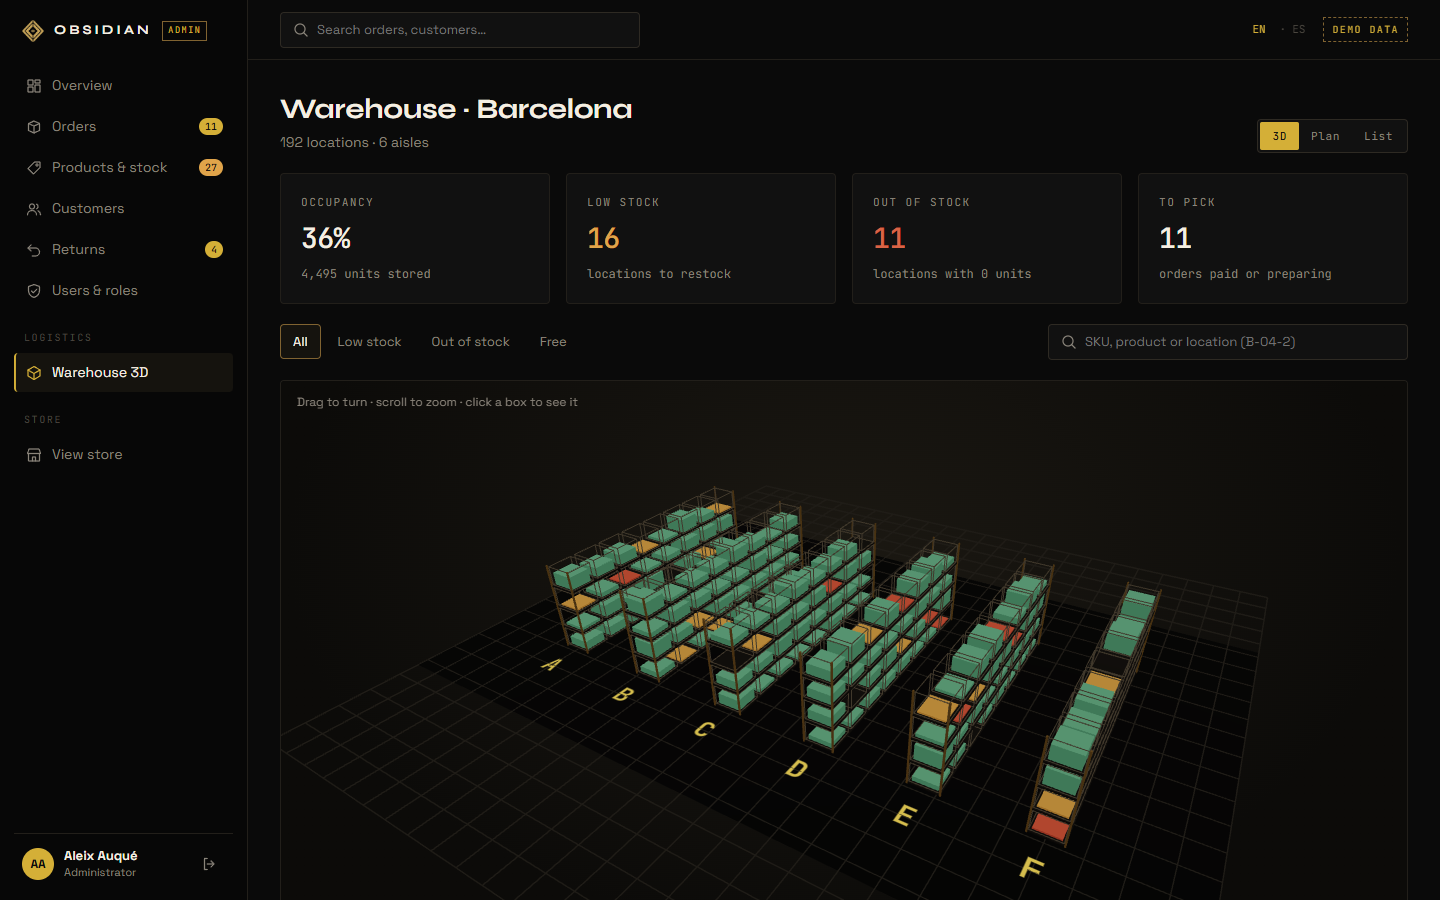
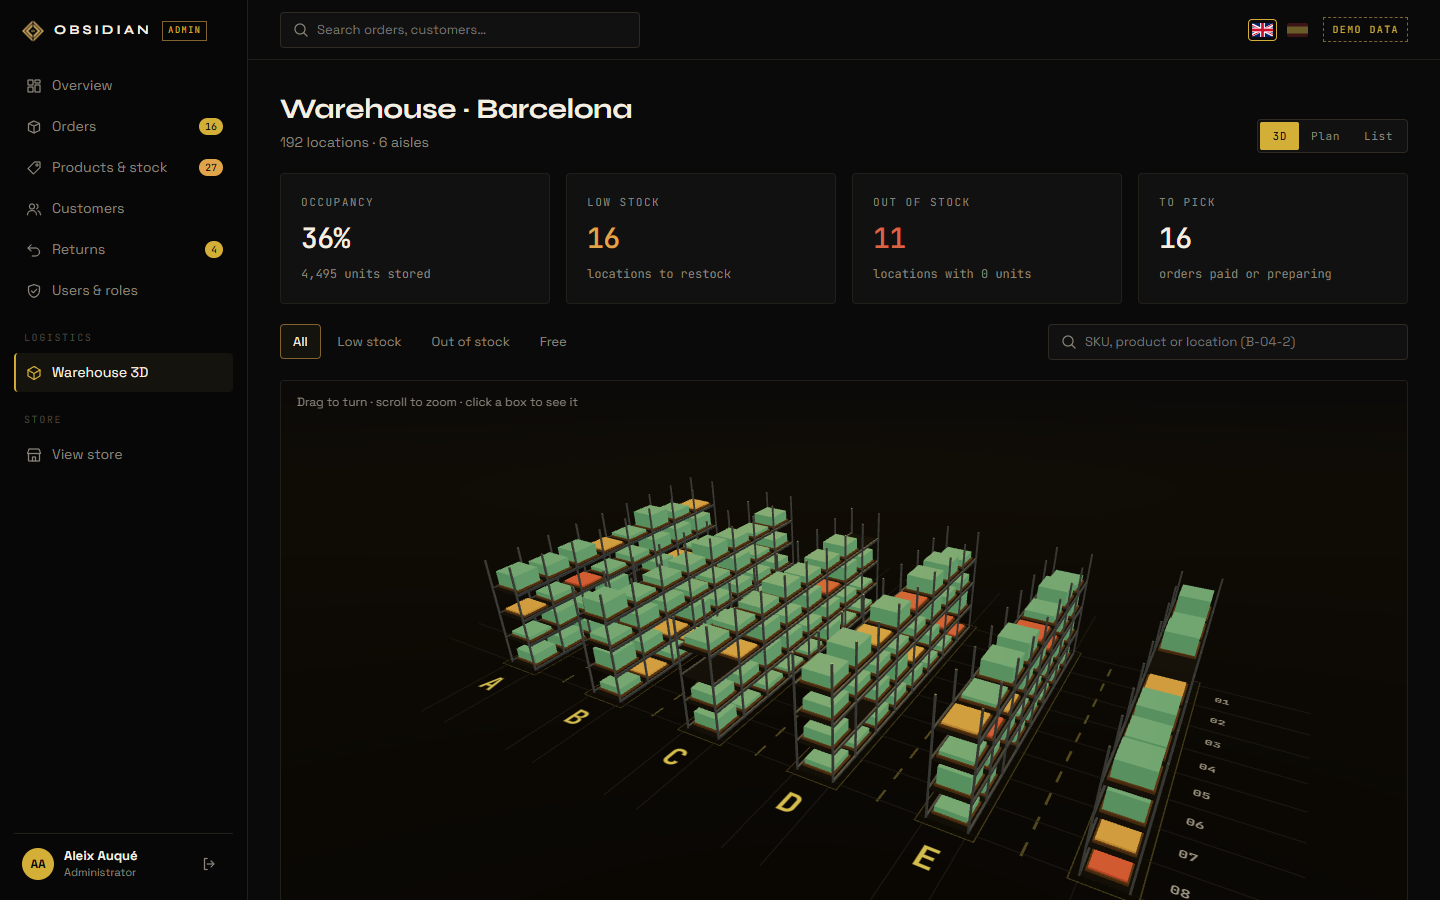
Almacén: estado de stock medio, colores más claros y columna de detalle fija
- Nuevo estado "stock medio" (amarillo) con filtro; stock bajo en naranja y agotado en rojo intenso
- Colores de stock como variables CSS, iguales en el almacén y en la tabla de stock
- La columna de detalle siempre está reservada: la vista no cambia de tamaño al elegir una ubicación
- Docs: almacén en los README (es, en, ca)

diff --git a/src/admin/admin.css b/src/admin/admin.css
@@ -895,7 +895,7 @@
 .adm-stock-alert {
   font-family: var(--font-mono);
   font-size: 11px;
-  color: #e0a44a;
+  color: var(--stock-low);
 }
 
 .adm-pill {
@@ -1117,13 +1117,13 @@
 }
 
 .adm-stock-input.is-low {
-  border-color: #e0a44a;
-  color: #e0a44a;
+  border-color: var(--stock-low);
+  color: var(--stock-low);
 }
 
 .adm-stock-input.is-out {
-  border-color: var(--accent-warn);
-  color: var(--accent-warn);
+  border-color: var(--stock-out);
+  color: var(--stock-out);
 }
 
 .adm-stock-footer {
@@ -1162,8 +1162,8 @@
   vertical-align: middle;
 }
 
-.adm-legend-dot.is-low { background: #e0a44a; }
-.adm-legend-dot.is-out { background: var(--accent-warn); }
+.adm-legend-dot.is-low { background: var(--stock-low); }
+.adm-legend-dot.is-out { background: var(--stock-out); }
 
 .adm-movements {
   display: flex;
@@ -1217,13 +1217,13 @@
 .adm-stock-low {
   font-family: var(--font-mono);
   font-size: 12px;
-  color: #e0a44a;
+  color: var(--stock-low);
 }
 
 .adm-stock-out {
   font-family: var(--font-mono);
   font-size: 12px;
-  color: var(--accent-warn);
+  color: var(--stock-out);
 }
 
 /* ------------ Export buttons ------------ */
@@ -1332,18 +1332,41 @@
   border-color: var(--gold-soft);
 }
 
-.wh-text-low { color: #e0a44a; }
-.wh-text-out { color: var(--accent-warn); }
+/* Stock state colours (the same as STATE_COLORS in warehouse/states.ts). */
+:root {
+  --stock-ok: #6fb38b;
+  --stock-medium: #e5c54f;
+  --stock-low: #ec8a2f;
+  --stock-out: #e5392f;
+  --stock-free: #7f9cc9;
+}
+
+.wh-text-low { color: var(--stock-low); }
+.wh-text-out { color: var(--stock-out); }
 
 .wh-layout {
   display: grid;
-  grid-template-columns: minmax(0, 1fr);
+  grid-template-columns: minmax(0, 1fr) 320px;
   gap: 16px;
   align-items: start;
 }
 
-.wh-layout.has-panel {
-  grid-template-columns: minmax(0, 1fr) 320px;
+/* Before choosing a location: a quiet hint in the details column. */
+.wh-panel-empty {
+  align-items: center;
+  text-align: center;
+  padding-bottom: 32px;
+}
+
+.wh-panel-empty .adm-card-head {
+  align-self: stretch;
+}
+
+.wh-panel-empty svg {
+  width: 32px;
+  height: 32px;
+  margin-top: 24px;
+  color: var(--gold-soft);
 }
 
 .wh-view {
@@ -1429,10 +1452,11 @@
   transform: scale(1.2);
 }
 
-.wh-cell.is-ok { background: #6fb38b; }
-.wh-cell.is-low { background: #e0a44a; }
-.wh-cell.is-out { background: #d96446; }
-.wh-cell.is-empty { background: rgba(127, 156, 201, 0.35); border: 1px dashed #7f9cc9; }
+.wh-cell.is-ok { background: var(--stock-ok); }
+.wh-cell.is-medium { background: var(--stock-medium); }
+.wh-cell.is-low { background: var(--stock-low); }
+.wh-cell.is-out { background: var(--stock-out); }
+.wh-cell.is-empty { background: rgba(127, 156, 201, 0.35); border: 1px dashed var(--stock-free); }
 .wh-cell.is-faded { opacity: 0.15; }
 
 .wh-cell.is-selected {
@@ -1463,9 +1487,10 @@
   height: 100%;
 }
 
-.wh-bar .is-ok { background: #6fb38b; }
-.wh-bar .is-low { background: #e0a44a; }
-.wh-bar .is-out { background: #d96446; }
+.wh-bar .is-ok { background: var(--stock-ok); }
+.wh-bar .is-medium { background: var(--stock-medium); }
+.wh-bar .is-low { background: var(--stock-low); }
+.wh-bar .is-out { background: var(--stock-out); }
 
 .wh-state {
   font-family: var(--font-mono);
@@ -1474,10 +1499,11 @@
   text-transform: uppercase;
 }
 
-.wh-state.is-ok { color: #6fb38b; }
-.wh-state.is-low { color: #e0a44a; }
-.wh-state.is-out { color: #d96446; }
-.wh-state.is-empty { color: #7f9cc9; }
+.wh-state.is-ok { color: var(--stock-ok); }
+.wh-state.is-medium { color: var(--stock-medium); }
+.wh-state.is-low { color: var(--stock-low); }
+.wh-state.is-out { color: var(--stock-out); }
+.wh-state.is-empty { color: var(--stock-free); }
 
 .adm-table tr.is-selected {
   background: #15130e;
@@ -1721,8 +1747,13 @@
     grid-template-columns: repeat(2, minmax(0, 1fr));
   }
 
-  /* The panel goes under the view instead of next to it. */
-  .wh-layout.has-panel {
+  /* The panel goes under the view instead of next to it,
+     and the empty hint isn't needed on small screens. */
+  .wh-panel-empty {
+    display: none;
+  }
+
+  .wh-layout {
     grid-template-columns: minmax(0, 1fr);
   }
 }

diff --git a/src/admin/pages/Warehouse.tsx b/src/admin/pages/Warehouse.tsx
@@ -23,6 +23,7 @@ const VIEWS: View[] = ["3d", "plan", "list"];
 // "label" is a translation key (admin.json).
 const FILTERS: { value: StateFilter; label: string }[] = [
   { value: "all", label: "common.all" },
+  { value: "medium", label: STATE_LABELS.medium },
   { value: "low", label: STATE_LABELS.low },
   { value: "out", label: STATE_LABELS.out },
   { value: "empty", label: STATE_LABELS.empty },
@@ -167,7 +168,9 @@ export function Warehouse() {
         </label>
       </div>
 
-      <div className={`wh-layout${selected ? " has-panel" : ""}`}>
+      {/* The details column is always there (empty until you pick a location),
+          so the 3D view and the plan keep the same size when you click. */}
+      <div className="wh-layout">
         <div className="adm-card wh-view">
           {view === "3d" && (
             <>
@@ -221,7 +224,17 @@ export function Warehouse() {
         </div>
 
         {/* key: a new location starts with a clean panel (no half-filled form). */}
-        {selected && <LocationPanel key={selected.id} location={selected} onClose={() => select(null)} />}
+        {selected ? (
+          <LocationPanel key={selected.id} location={selected} onClose={() => select(null)} />
+        ) : (
+          <section className="adm-card wh-panel wh-panel-empty">
+            <div className="adm-card-head">
+              <h2>{t("warehouse.panel.title")}</h2>
+            </div>
+            <AdminIcon.Warehouse />
+            <p className="adm-muted">{t("warehouse.panel.empty")}</p>
+          </section>
+        )}
       </div>
     </>
   );

diff --git a/src/admin/warehouse/states.ts b/src/admin/warehouse/states.ts
@@ -6,14 +6,16 @@ import type { LocationState, WarehouseLocation } from "../api";
  */
 export const STATE_COLORS: Record<LocationState, string> = {
   ok: "#6fb38b", // green: enough units
-  low: "#e0a44a", // amber: at or below the alert level
-  out: "#d96446", // red: no units left
+  medium: "#e5c54f", // yellow: 40% full or less
+  low: "#ec8a2f", // orange: at or below the alert level
+  out: "#e5392f", // red: no units left
   empty: "#7f9cc9", // blue-grey: nothing stored here (free to use)
 };
 
 /** Translation keys (admin.json), shown with t(STATE_LABELS[state]). */
 export const STATE_LABELS: Record<LocationState, string> = {
   ok: "warehouse.states.ok",
+  medium: "warehouse.states.medium",
   low: "warehouse.states.low",
   out: "warehouse.states.out",
   empty: "warehouse.states.empty",
@@ -26,7 +28,7 @@ export function fillRatio(location: WarehouseLocation): number {
 }
 
 /** The filter chips above the views. */
-export type StateFilter = "all" | "low" | "out" | "empty";
+export type StateFilter = "all" | "medium" | "low" | "out" | "empty";
 
 /**
  * Does this location match the search box and the filter chip?

diff --git a/src/admin/api.ts b/src/admin/api.ts
@@ -495,7 +495,7 @@ function defaultFileName(section: ExportSection, format: ExportFormat): string {
 // ──────────────────────────────────────────────────────────────────────
 
 /** ok = enough units, low = at or below the alert, out = 0 units, empty = nothing stored. */
-export type LocationState = "ok" | "low" | "out" | "empty";
+export type LocationState = "ok" | "medium" | "low" | "out" | "empty";
 
 export interface WarehouseLocation {
   id: number;

diff --git a/src/admin/warehouse/WarehouseScene.tsx b/src/admin/warehouse/WarehouseScene.tsx
@@ -32,7 +32,7 @@ const FLOOR_Y = -LEVEL_HEIGHT / 2; // the floor is under the first level
 const PALLET_HEIGHT = 0.06;
 
 // Colours of the scene (the stock colours come from states.ts). The racks are
-// grey steel on purpose: amber and red already mean "low" and "out of stock".
+// grey steel on purpose: yellow, orange and red already mean stock states.
 const COLORS = {
   background: "#0b0a08",
   floor: "#11100d",

diff --git a/README.ca.md b/README.ca.md
@@ -85,13 +85,23 @@ capçalera de la botiga per entrar-hi directament; els clients no el veuen.
 | Clients | Llistat amb el total gastat i fitxa amb adreces i historial de comandes. |
 | Devolucions | El client la demana des del seu compte (30 dies); atenció al client l'aprova o la rebutja i fa el reemborsament (simulat, encara sense Stripe). L'estoc torna sol. |
 | Usuaris i rols | Equip, taula de permisos, afegir persones i canviar-ne el rol. |
-| Magatzem 3D | 192 ubicacions (passadís, mòdul i nivell) dibuixades en 3D: cada caixa té el color del seu estoc i l'alçada de com de plena està. Vistes Pla i Llista per al mòbil, cerca per SKU o ubicació, reposar i moure productes. |
+| Magatzem 3D | 192 ubicacions (passadís, mòdul i nivell) dibuixades en 3D: cada caixa té el color del seu estat (amb estoc, mitjà, baix, esgotat o lliure) i l'alçada de com de plena està. Vistes Pla i Llista per al mòbil, cerca per SKU o ubicació, reposar i moure productes. |
 | Exportar | Cada llistat es descarrega en CSV o Excel. |
 
 **Magatzem en 3D** (`/admin/warehouse`): fet amb react-three-fiber (Three.js escrit com a
 components de React). Fa servir les mateixes dades que la resta del panell: cada ubicació
 guarda una variant i el seu estoc, i reposar crea un moviment d'estoc normal. El codi 3D només
 es descarrega en obrir aquesta pàgina, i al mòbil o sense WebGL s'obre la vista Pla.
+
+- **Estats de cada ubicació:** verd (amb estoc), groc (estoc mitjà: 40 % de la capacitat o
+  menys), taronja (estoc baix, a l'avís), vermell (esgotat) i blau (lliure). Cada estat té el
+  seu filtre i, en filtrar, els prestatges es tornen transparents perquè es vegin les
+  ubicacions cercades.
+- **Escena:** prestatgeries d'acer amb palets, terra amb marques alineades amb les
+  prestatgeries (línies per mòdul, línies de seguretat, passadissos i números de mòdul), llum
+  en tres punts, ombres suaus i un marcador daurat sobre la ubicació triada.
+- **Detall fix:** la columna de la dreta sempre està reservada, així la vista no canvia de
+  mida en triar una ubicació.
 
 ![Magatzem en 3D](./docs/screenshots/admin-warehouse-3d.png)
 

diff --git a/README.md b/README.md
@@ -85,13 +85,23 @@ para entrar directamente; los clientes no lo ven.
 | Clientes | Listado con total gastado y ficha con direcciones e historial de pedidos. |
 | Devoluciones | El cliente la pide desde su cuenta (30 días); atención al cliente la aprueba o rechaza y hace el reembolso (simulado, sin Stripe todavía). El stock vuelve solo. |
 | Usuarios y roles | Equipo, tabla de permisos, añadir personas y cambiar su rol. |
-| Almacén 3D | 192 ubicaciones (pasillo, módulo y nivel) dibujadas en 3D: cada caja tiene el color de su stock y la altura de lo llena que está. Vistas Plano y Lista para móvil, búsqueda por SKU o ubicación, reponer y mover productos. |
+| Almacén 3D | 192 ubicaciones (pasillo, módulo y nivel) dibujadas en 3D: cada caja tiene el color de su estado (con stock, medio, bajo, agotado o libre) y la altura de lo llena que está. Vistas Plano y Lista para móvil, búsqueda por SKU o ubicación, reponer y mover productos. |
 | Exportar | Cada listado se descarga en CSV o Excel. |
 
 **Almacén en 3D** (`/admin/warehouse`): hecho con react-three-fiber (Three.js escrito como
 componentes de React). Los datos son los mismos que en el resto del panel: cada ubicación
 guarda una variante y su stock, y al reponer se crea un movimiento de stock normal. El código
 3D se descarga solo al abrir esa página, y en móvil o sin WebGL se abre la vista Plano.
+
+- **Estados de cada ubicación:** verde (con stock), amarillo (stock medio: 40 % de la
+  capacidad o menos), naranja (stock bajo, en el aviso), rojo (agotado) y azul (libre). Cada
+  estado tiene su filtro y, al filtrar, las baldas se vuelven transparentes para que se vean
+  las ubicaciones buscadas.
+- **Escena:** estanterías de acero con palés, suelo con marcas alineadas con las estanterías
+  (líneas por módulo, líneas de seguridad, pasillos y números de módulo), luz en tres puntos,
+  sombras suaves y un marcador dorado sobre la ubicación elegida.
+- **Detalle fijo:** la columna de la derecha está siempre reservada, así la vista no cambia
+  de tamaño al elegir una ubicación.
 
 ![Almacén en 3D](./docs/screenshots/admin-warehouse-3d.png)
 

diff --git a/README.en.md b/README.en.md
@@ -85,13 +85,22 @@ to the panel; customers don't see it.
 | Customers | List with total spent, and a profile with addresses and order history. |
 | Returns | The customer asks from their account (30 days); support approves or rejects it and refunds (simulated, no Stripe yet). Stock comes back automatically. |
 | Users & roles | Team, permissions table, adding people and changing their role. |
-| Warehouse 3D | 192 locations (aisle, bay and level) drawn in 3D: each box has the colour of its stock and the height of how full it is. Plan and List views for phones, search by SKU or location, restock and move products. |
+| Warehouse 3D | 192 locations (aisle, bay and level) drawn in 3D: each box has the colour of its state (in stock, half empty, low, out or free) and the height of how full it is. Plan and List views for phones, search by SKU or location, restock and move products. |
 | Export | Every list downloads as CSV or Excel. |
 
 **3D warehouse** (`/admin/warehouse`): made with react-three-fiber (Three.js written as React
 components). It uses the same data as the rest of the panel: each location holds a variant and
 its stock, and a restock creates a normal stock movement. The 3D code only downloads when that
 page opens, and phones or browsers without WebGL open the Plan view.
+
+- **Location states:** green (in stock), yellow (half empty: 40% of the capacity or less),
+  orange (low stock, at the alert), red (out of stock) and blue (free). Each state has its
+  filter and, while filtering, the shelves turn see-through so the matching locations stand out.
+- **Scene:** steel racks with pallets, floor markings aligned with the racks (a line per bay,
+  safety lines, corridors and bay numbers), three-point lighting, soft shadows and a gold
+  marker over the chosen location.
+- **Fixed details column:** the right column is always there, so the view doesn't change size
+  when you pick a location.
 
 ![3D warehouse](./docs/screenshots/admin-warehouse-3d.png)
 
